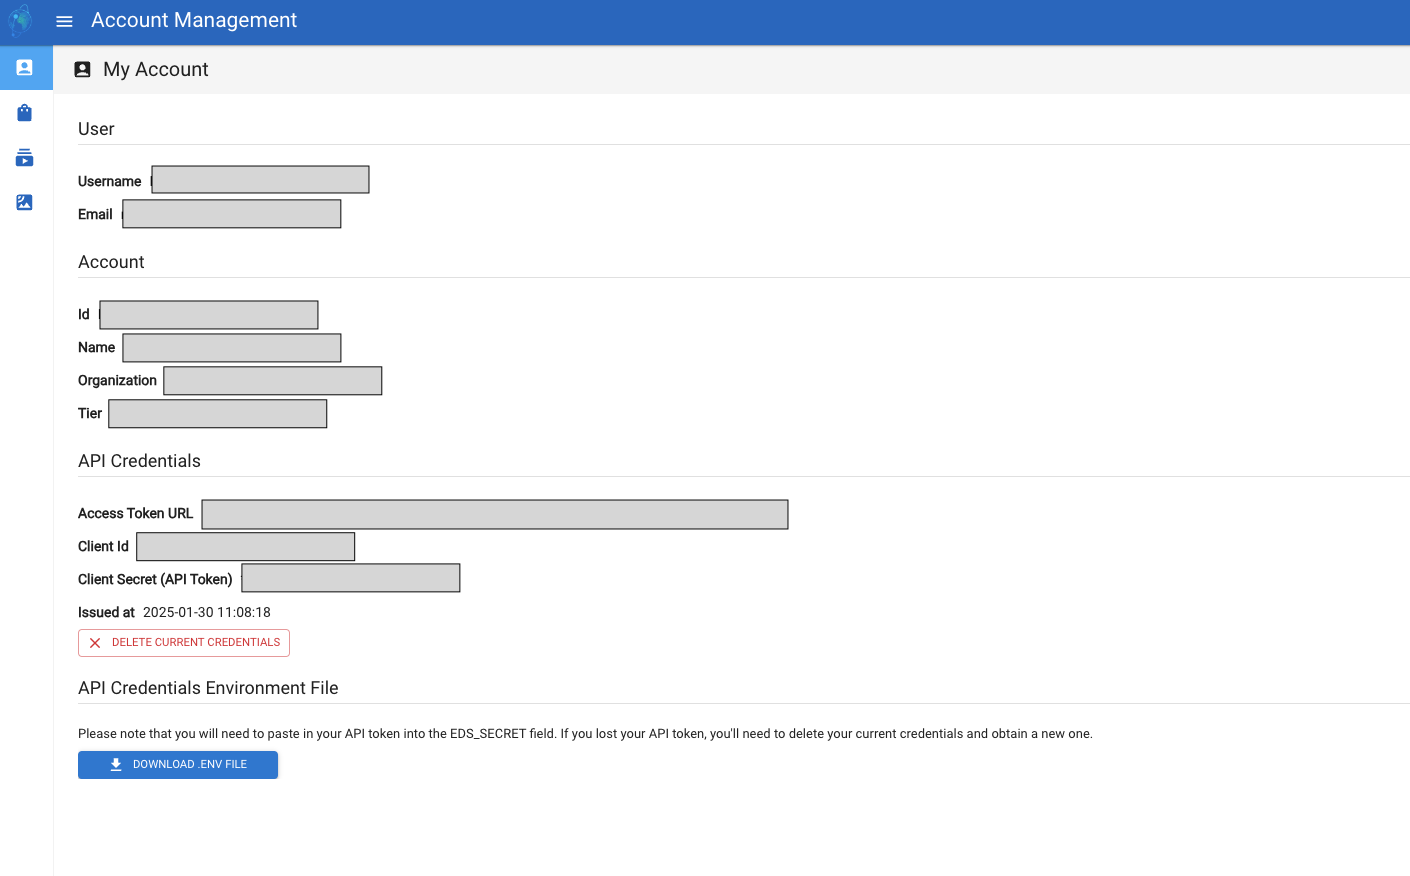
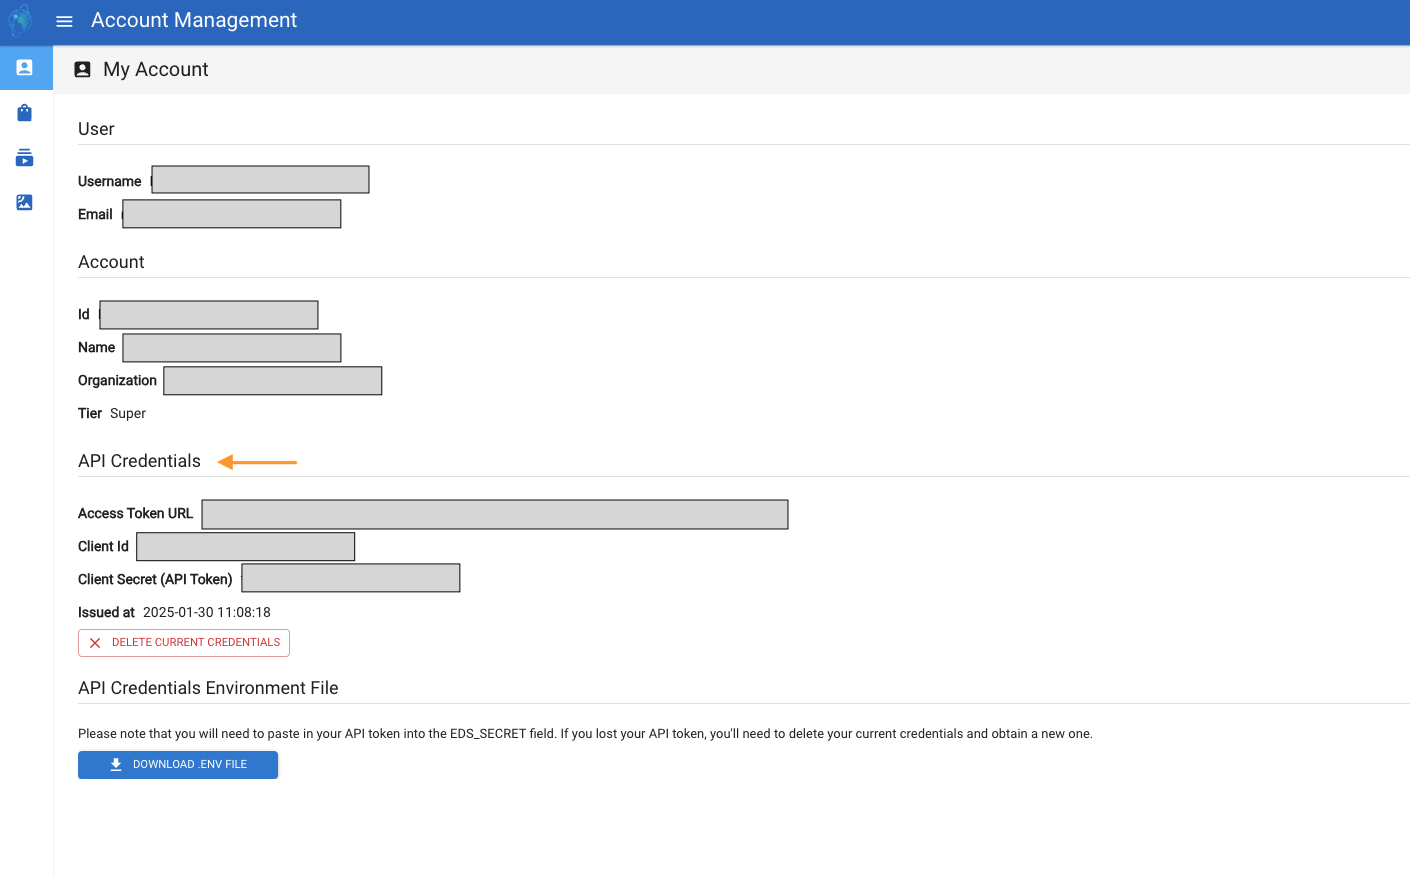
ToC + minor changes

Changed region(s): [[0.0624, 0.4315, 0.2496, 0.4932], [0.156, 0.524, 0.2184, 0.5548]]

diff --git a/GettingStarted/QuickStart.md b/GettingStarted/QuickStart.md
@@ -25,7 +25,7 @@ EarthDaily data comprises of Open collections, EDA specific collections, Mosaics
 
 There are different ways outlined below for accessing the EarthDaily data. . The required client_id, client_secret and access_token_url values can be found on [Account Management](https://console.earthdaily.com/account) page. These API credentials are specific to your user account on EarthPlatform and should be kept confidential.
 
-![Client Credentials](../Images/STACAPI//AccountInformation.png)
+![Client Credentials](../../Images/STACAPI/New%20API%20Creds%20on%20Accounts%20Page.png)
 For more see: [Authentication](../GettingStarted/APIAuthentication.md)
 
 ## API

diff --git a/Collections/EDACloudMasks.md b/Collections/EDACloudMasks.md
@@ -6,6 +6,12 @@ parent: Collections
 nav_order: 3
 ---
 
+# Table of Contents
+* [Cloud Masking](#cloud-masking)
+    * [Why do Cloud Masks Matter](#why-do-cloud-masks-matter)
+    * [References](#references)
+
+
 # Cloud Masking
 
 [EDA's Accurate Cloud Masking](https://earthdailyagro.com/spend-less-data-scientists-time-cleaning-data-high-quality-cloud-masks-for-sentinel2-landsat-and-others-available-today/) have been shown to be more accurate then current open data standard processing which improves ML applications and the pixel compositing process for mosaics. 

diff --git a/Console/NewLoginExperience.md b/Console/NewLoginExperience.md
@@ -6,6 +6,14 @@ parent: Console
 nav_order: 1
 ---
 
+# Table of Contents
+* [Login](#login)
+    * [Verifying that you're using the new login flow](#verifying-that-youre-using-the-new-login-flow)
+    * [Setting Up Your Password](#setting-up-your-password)
+* [API Authentication](#api-authentication)
+    * [Using the new API token](#using-the-new-api-token)
+
+
 
 {: .note }
 > On **March 10, 2025** EarthDaily will switch to it's new authentication system for all EarthDaily Console sites. 
